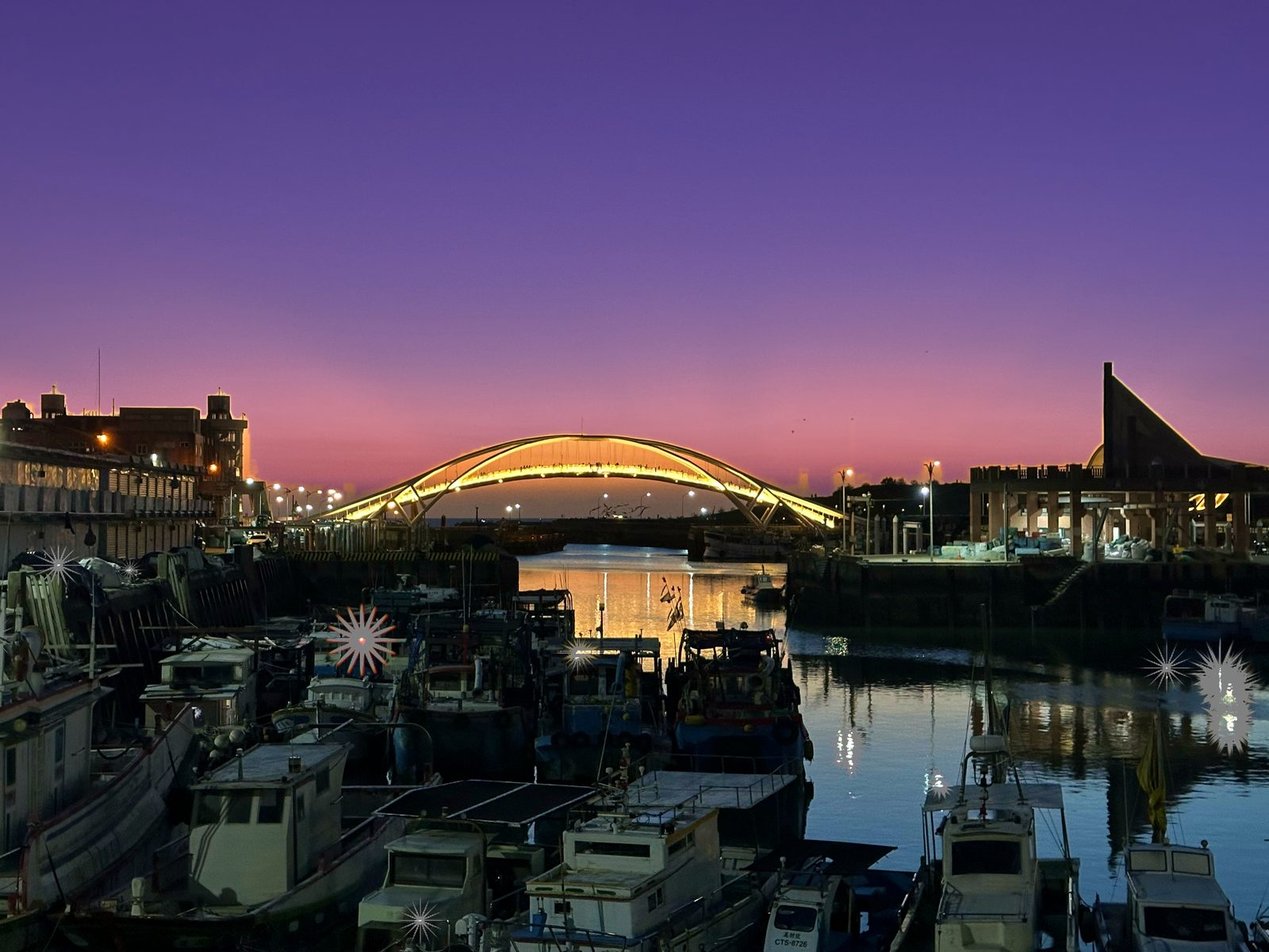
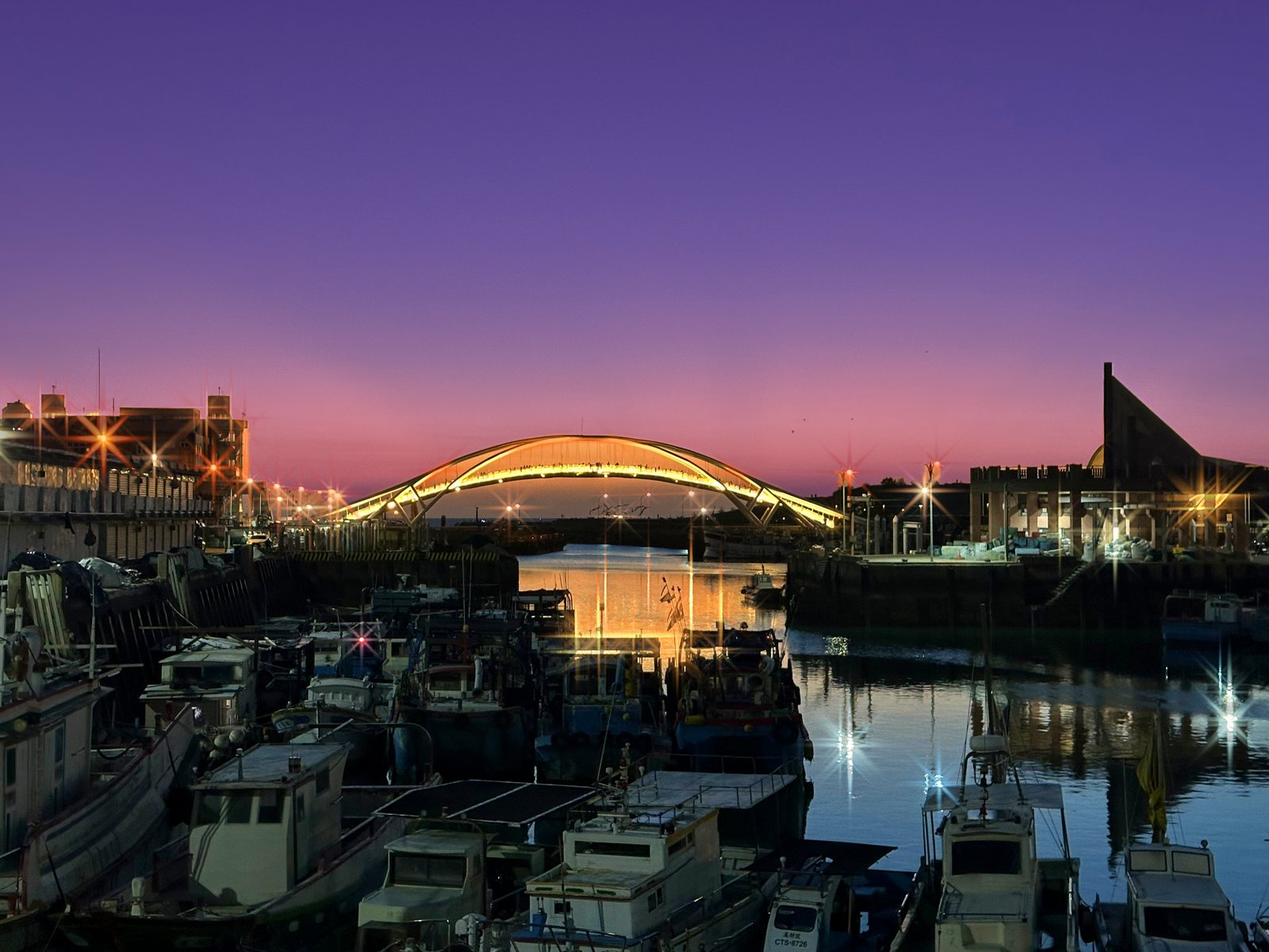
海港改晚霞+八道星芒;新增人像專區

diff --git a/en/index.html b/en/index.html
@@ -101,6 +101,13 @@ border-radius:12px;padding:9px 12px}
 .stats b{display:block;font-size:clamp(2rem,4vw,2.8rem);line-height:1;letter-spacing:-.03em;font-weight:800}
 .stats span{display:block;color:var(--muted);font-size:.88rem;margin-top:10px}
 @media (max-width:860px){.stats{grid-template-columns:repeat(2,1fr)}.stats div:last-child{grid-column:span 2}}
+.pgrid{display:grid;grid-template-columns:repeat(2,1fr);gap:28px}
+.pcard{background:var(--card);border:1px solid var(--line);border-radius:var(--r);padding:14px 14px 22px}
+.pcard .ba{border-radius:16px;aspect-ratio:4/5}
+.pcard .ba img{width:100%;height:100%;object-fit:cover}
+.pcard h3{font-size:1.15rem;margin:16px 6px 6px}
+.pcard p{color:var(--muted);margin:0 6px;font-size:.95rem}
+@media (max-width:760px){.pgrid{grid-template-columns:1fr}}
 .note{color:var(--dim);font-size:.82rem;text-align:center;margin-top:40px}
 @media (max-width:860px){.cmp,.cmp.tall,.cmp.flip,.cmp.tall.flip{grid-template-columns:1fr;gap:26px}.cmp.flip .media{order:0}}
 /* features */
@@ -208,9 +215,10 @@ the way you remember it.</h1>
 </section>
 <section class="wrap"><div class="stats"><div><b class="grad">0</b><span>photos uploaded to the cloud</span></div><div><b class="grad">478</b><span>facial landmarks for precise makeup</span></div><div><b class="grad">22</b><span>makeup areas</span></div><div><b class="grad">16</b><span>style filters</span></div><div><b class="grad">3</b><span>stacking modes: Fireworks, Starry, HDR</span></div></div></section>
 <section class="blk wrap" id="compare"><div class="head"><h2>Drag to see the difference</h2><p>Every image below was rendered by Luneki itself — no other software involved. Drag the handle left and right to compare.</p></div>
-<div class="cmp flip"><div class="media"><div class="ba" style="--p:50%"><img src="/assets/harbor-after.jpg" width="1600" height="1200" alt="A plain dusk becomes a violet afterglow — After" decoding="async" loading="lazy"><div class="b"><img src="/assets/harbor-before.jpg" width="1600" height="1200" alt="A plain dusk becomes a violet afterglow — Before" decoding="async" loading="lazy"></div><input type="range" min="0" max="100" value="50" aria-label="Before and after slider"><div class="h"></div><span class="t l">Before</span><span class="t r">After</span></div></div>
-<div><span class="tag">Sky</span><h3>A plain dusk becomes a violet afterglow</h3><p>The Sky tool detects the sky automatically and paints only the sky with an afterglow gradient — the docks, boats and lights stay untouched. Even the starbursts on the lights in the original were made with Luneki&#x27;s Lens tool.</p><ul class="steps"><li><svg class="ico" viewBox="0 0 24 24" fill="none" stroke="currentColor" stroke-width="1.8" stroke-linecap="round" stroke-linejoin="round" aria-hidden="true"><path d="M20 6 9 17l-5-5"/></svg><span>Sky: Sunset 60 (Precise mode)</span></li><li><svg class="ico" viewBox="0 0 24 24" fill="none" stroke="currentColor" stroke-width="1.8" stroke-linecap="round" stroke-linejoin="round" aria-hidden="true"><path d="M20 6 9 17l-5-5"/></svg><span>Basic: Vibrance +25, Contrast +10</span></li></ul></div></div><div class="cmp tall"><div class="media"><div class="ba" style="--p:50%"><img src="/assets/portrait-after.jpg" width="785" height="1122" alt="Korean shimmer makeup in one tap — After" decoding="async" loading="lazy"><div class="b"><img src="/assets/portrait-before.jpg" width="785" height="1122" alt="Korean shimmer makeup in one tap — Before" decoding="async" loading="lazy"></div><input type="range" min="0" max="100" value="50" aria-label="Before and after slider"><div class="h"></div><span class="t l">Before</span><span class="t r">After</span></div></div>
-<div><span class="tag">Portrait</span><h3>Korean shimmer makeup in one tap</h3><p>Deep Retouch removes blemishes while keeping pores and texture. Makeup follows 478 facial landmarks, so eyeshadow, shimmer, lashes and lip color land exactly where they should — and every area can still be fine-tuned.</p><ul class="steps"><li><svg class="ico" viewBox="0 0 24 24" fill="none" stroke="currentColor" stroke-width="1.8" stroke-linecap="round" stroke-linejoin="round" aria-hidden="true"><path d="M20 6 9 17l-5-5"/></svg><span>Preset: K-Glow</span></li><li><svg class="ico" viewBox="0 0 24 24" fill="none" stroke="currentColor" stroke-width="1.8" stroke-linecap="round" stroke-linejoin="round" aria-hidden="true"><path d="M20 6 9 17l-5-5"/></svg><span>Deep Retouch 70 + Whiten + 22-area makeup</span></li></ul></div></div><p class="note">The portrait sample photo is AI-generated.</p></section>
+<div class="cmp flip"><div class="media"><div class="ba" style="--p:50%"><img src="/assets/harbor-after.jpg" width="1600" height="1200" alt="A plain dusk becomes a violet afterglow with starbursts — After" decoding="async" loading="lazy"><div class="b"><img src="/assets/harbor-before.jpg" width="1600" height="1200" alt="A plain dusk becomes a violet afterglow with starbursts — Before" decoding="async" loading="lazy"></div><input type="range" min="0" max="100" value="50" aria-label="Before and after slider"><div class="h"></div><span class="t l">Before</span><span class="t r">After</span></div></div>
+<div><span class="tag">Sky</span><h3>A plain dusk becomes a violet afterglow with starbursts</h3><p>The Sky tool detects the sky automatically and paints only the sky with a violet afterglow — the docks, boats and lights stay untouched. Then the Lens tool turns the lights into 8-point starbursts.</p><ul class="steps"><li><svg class="ico" viewBox="0 0 24 24" fill="none" stroke="currentColor" stroke-width="1.8" stroke-linecap="round" stroke-linejoin="round" aria-hidden="true"><path d="M20 6 9 17l-5-5"/></svg><span>Sky: Sunset 60 (Precise mode)</span></li><li><svg class="ico" viewBox="0 0 24 24" fill="none" stroke="currentColor" stroke-width="1.8" stroke-linecap="round" stroke-linejoin="round" aria-hidden="true"><path d="M20 6 9 17l-5-5"/></svg><span>Lens: Starburst 100, 8 points</span></li><li><svg class="ico" viewBox="0 0 24 24" fill="none" stroke="currentColor" stroke-width="1.8" stroke-linecap="round" stroke-linejoin="round" aria-hidden="true"><path d="M20 6 9 17l-5-5"/></svg><span>Basic: Vibrance +25, Contrast +10</span></li></ul></div></div></section>
+<section class="blk wrap" id="portraits" style="padding-top:0"><div class="head"><h2>Portraits, done just as carefully</h2><p>Retouching, makeup, face shape and hair color — all on your device, and every step stays adjustable. Drag the handle to compare.</p></div>
+<div class="pgrid"><article class="pcard"><div class="ba" style="--p:50%"><img src="/assets/retouch-after.jpg" width="700" height="807" alt="Deep Retouch: blemishes and red spots, gone — After" decoding="async" loading="lazy"><div class="b"><img src="/assets/retouch-before.jpg" width="700" height="807" alt="Deep Retouch: blemishes and red spots, gone — Before" decoding="async" loading="lazy"></div><input type="range" min="0" max="100" value="50" aria-label="Before and after slider"><div class="h"></div><span class="t l">Before</span><span class="t r">After</span></div><h3>Deep Retouch: blemishes and red spots, gone</h3><p>AI removes only the flaws — pores and skin texture stay, no plastic look.</p></article><article class="pcard"><div class="ba" style="--p:50%"><img src="/assets/portrait-after.jpg" width="785" height="1122" alt="K-Glow makeup in one tap — After" decoding="async" loading="lazy"><div class="b"><img src="/assets/portrait-before.jpg" width="785" height="1122" alt="K-Glow makeup in one tap — Before" decoding="async" loading="lazy"></div><input type="range" min="0" max="100" value="50" aria-label="Before and after slider"><div class="h"></div><span class="t l">Before</span><span class="t r">After</span></div><h3>K-Glow makeup in one tap</h3><p>Eyeshadow, shimmer, lashes and lip color follow your features; all 22 areas can be fine-tuned.</p></article><article class="pcard"><div class="ba" style="--p:50%"><img src="/assets/reshape-after.jpg" width="700" height="804" alt="Face shape: slimmer cheeks, bigger eyes, finer nose — After" decoding="async" loading="lazy"><div class="b"><img src="/assets/reshape-before.jpg" width="700" height="804" alt="Face shape: slimmer cheeks, bigger eyes, finer nose — Before" decoding="async" loading="lazy"></div><input type="range" min="0" max="100" value="50" aria-label="Before and after slider"><div class="h"></div><span class="t l">Before</span><span class="t r">After</span></div><h3>Face shape: slimmer cheeks, bigger eyes, finer nose</h3><p>Adjusts along real contours for natural proportions, without warping the background.</p></article><article class="pcard"><div class="ba" style="--p:50%"><img src="/assets/haircolor-after.jpg" width="700" height="835" alt="Hair color that keeps every strand — After" decoding="async" loading="lazy"><div class="b"><img src="/assets/haircolor-before.jpg" width="700" height="835" alt="Hair color that keeps every strand — Before" decoding="async" loading="lazy"></div><input type="range" min="0" max="100" value="50" aria-label="Before and after slider"><div class="h"></div><span class="t l">Before</span><span class="t r">After</span></div><h3>Hair color that keeps every strand</h3><p>AI finds the hair and changes only its color, keeping the light and shine of each strand.</p></article></div><p class="note">The portrait sample photo is AI-generated.</p></section>
 <section class="blk wrap" id="features"><div class="head"><h2>One app, from the night sky to selfies</h2><p>Every tool a photographer needs — and every step can be revisited.</p></div>
 <div class="grid"><article class="card"><div class="ihead"><svg class="ico" viewBox="0 0 24 24" fill="none" stroke="currentColor" stroke-width="1.8" stroke-linecap="round" stroke-linejoin="round" aria-hidden="true"><path d="M21 12.8A9 9 0 1 1 11.2 3a7 7 0 0 0 9.8 9.8z"/></svg><h3>Landscape · Night · Astro</h3></div><dl><div><dt>AI Denoise</dt><dd>Clean up high-ISO and night noise in one step while keeping stars and detail.</dd></div><div><dt>Multi-photo Stacking</dt><dd>Fireworks, Starry (with star alignment) and HDR (with ghost removal) — desktop-class compositing on your phone.</dd></div><div><dt>Sky Tools</dt><dd>Auto or Precise sky detection: Sunset, Fire Sky, Blue Sky, cloud Depth and Recolor, applied to the sky only.</dd></div><div><dt>AI Dehaze · Shadow Detail</dt><dd>Cut through haze and recover depth in shadows and highlights.</dd></div><div><dt>Camera RAW</dt><dd>Import RAW files for maximum latitude; save lens correction presets that apply automatically next time.</dd></div></dl></article><article class="card"><div class="ihead"><svg class="ico" viewBox="0 0 24 24" fill="none" stroke="currentColor" stroke-width="1.8" stroke-linecap="round" stroke-linejoin="round" aria-hidden="true"><path d="M4 21v-7M4 10V3M12 21v-9M12 8V3M20 21v-5M20 12V3M1 14h6M9 8h6M17 16h6"/></svg><h3>Professional Color</h3></div><dl><div><dt>Curves &amp; HSL</dt><dd>RGB and per-channel curves plus 8-color HSL for precise control over every hue.</dd></div><div><dt>Selective Adjustments</dt><dd>Tap the sky, subject, people or any object — or paint a region — and adjust only that area.</dd></div><div><dt>16 Filters</dt><dd>Film, black &amp; white, Japanese airy, Hong Kong mood, cinematic and more, with adjustable strength.</dd></div><div><dt>Non-destructive Editing</dt><dd>Every adjustment can be toggled, changed or removed; press and hold the photo to compare with the original.</dd></div><div><dt>Presets</dt><dd>Apply a look to other photos in one tap, or copy and paste a whole edit across many photos.</dd></div></dl></article><article class="card"><div class="ihead"><svg class="ico" viewBox="0 0 24 24" fill="none" stroke="currentColor" stroke-width="1.8" stroke-linecap="round" stroke-linejoin="round" aria-hidden="true"><circle cx="12" cy="12" r="9"/><path d="M8.5 14.5a4.5 4.5 0 0 0 7 0M9 9.5h.01M15 9.5h.01"/></svg><h3>Portrait</h3></div><dl><div><dt>Deep Retouch</dt><dd>AI removes blemishes but keeps real skin texture — no plastic look.</dd></div><div><dt>Skin Beauty &amp; Blemish</dt><dd>Auto blemish removal, dark-circle reduction, whitening and skin tone; tap to remove a spot.</dd></div><div><dt>Reshape &amp; Body</dt><dd>Slim the face, enlarge eyes, refine the nose and chin, lengthen legs or slim the belly — following real contours without warping the background.</dd></div><div><dt>22-area Makeup</dt><dd>Foundation, contour, eyeshadow, shimmer, eyeliner, lashes, blush, lip color, dewy skin and more — plus hair color.</dd></div><div><dt>Group Photos</dt><dd>Adjust each face and each person separately; register people you photograph often and their settings apply automatically (PRO).</dd></div></dl></article><article class="card"><div class="ihead"><svg class="ico" viewBox="0 0 24 24" fill="none" stroke="currentColor" stroke-width="1.8" stroke-linecap="round" stroke-linejoin="round" aria-hidden="true"><circle cx="12" cy="12" r="9"/><path d="M14.3 3.3 9 12.5M20.6 9.5h-10.6M18.3 18 13 8.8M9.7 20.7 15 11.5M3.4 14.5h10.6M5.7 6 11 15.2"/></svg><h3>Light &amp; Lens</h3></div><dl><div><dt>Background Blur &amp; Bokeh</dt><dd>Simulate a wide-aperture lens: background lights turn into soft, round bokeh balls. Adjust aperture, bokeh size, softness and aperture shape — even cat&#x27;s-eye bokeh.</dd></div><div><dt>Starburst</dt><dd>Turn night lights into 4-, 6- or 8-point starbursts, just like shooting at a small aperture.</dd></div><div><dt>Lens Correction</dt><dd>Fix vignetting and distortion in one place — straighten even ultra-wide shots.</dd></div><div><dt>Erase Object</dt><dd>Brush away people, clutter or power lines, and AI fills in the background.</dd></div><div><dt>Draw &amp; Apple Pencil</dt><dd>Doodle and write right on your photos; Apple Pencil varies the width with pressure, and iPad gets a large split-view canvas.</dd></div></dl></article></div></section>
 <section class="wrap" id="privacy"><div class="band"><svg class="ico lg" viewBox="0 0 24 24" fill="none" stroke="currentColor" stroke-width="1.8" stroke-linecap="round" stroke-linejoin="round" aria-hidden="true"><path d="M12 22s8-4 8-10V5l-8-3-8 3v7c0 6 8 10 8 10z"/><path d="m9 12 2 2 4-4"/></svg>

diff --git a/zh-Hant/index.html b/zh-Hant/index.html
@@ -101,6 +101,13 @@ border-radius:12px;padding:9px 12px}
 .stats b{display:block;font-size:clamp(2rem,4vw,2.8rem);line-height:1;letter-spacing:-.03em;font-weight:800}
 .stats span{display:block;color:var(--muted);font-size:.88rem;margin-top:10px}
 @media (max-width:860px){.stats{grid-template-columns:repeat(2,1fr)}.stats div:last-child{grid-column:span 2}}
+.pgrid{display:grid;grid-template-columns:repeat(2,1fr);gap:28px}
+.pcard{background:var(--card);border:1px solid var(--line);border-radius:var(--r);padding:14px 14px 22px}
+.pcard .ba{border-radius:16px;aspect-ratio:4/5}
+.pcard .ba img{width:100%;height:100%;object-fit:cover}
+.pcard h3{font-size:1.15rem;margin:16px 6px 6px}
+.pcard p{color:var(--muted);margin:0 6px;font-size:.95rem}
+@media (max-width:760px){.pgrid{grid-template-columns:1fr}}
 .note{color:var(--dim);font-size:.82rem;text-align:center;margin-top:40px}
 @media (max-width:860px){.cmp,.cmp.tall,.cmp.flip,.cmp.tall.flip{grid-template-columns:1fr;gap:26px}.cmp.flip .media{order:0}}
 /* features */
@@ -208,9 +215,10 @@ display:grid;place-items:center;font-size:.85rem;font-weight:700;background:var(
 </section>
 <section class="wrap"><div class="stats"><div><b class="grad">0</b><span>張照片上傳到雲端</span></div><div><b class="grad">478</b><span>個臉部特徵點，化妝精準貼合</span></div><div><b class="grad">22</b><span>個化妝部位</span></div><div><b class="grad">16</b><span>種風格濾鏡</span></div><div><b class="grad">3</b><span>種疊圖模式：煙火、星空、HDR</span></div></div></section>
 <section class="blk wrap" id="compare"><div class="head"><h2>拖曳看看差別</h2><p>以下都是 Luneki 實際渲染的結果，沒有其他軟體加工。左右拖曳中間的把手比較。</p></div>
-<div class="cmp flip"><div class="media"><div class="ba" style="--p:50%"><img src="/assets/harbor-after.jpg" width="1600" height="1200" alt="平淡的黃昏，變成紫紅晚霞 — 調整後" decoding="async" loading="lazy"><div class="b"><img src="/assets/harbor-before.jpg" width="1600" height="1200" alt="平淡的黃昏，變成紫紅晚霞 — 原圖" decoding="async" loading="lazy"></div><input type="range" min="0" max="100" value="50" aria-label="前後對照滑桿"><div class="h"></div><span class="t l">原圖</span><span class="t r">調整後</span></div></div>
-<div><span class="tag">天空</span><h3>平淡的黃昏，變成紫紅晚霞</h3><p>天空調整會自動辨識天空，只替天空換上晚霞漸層，碼頭、船隻與燈光完全不受影響。原圖中的燈光星芒，也是用 Luneki 的鏡頭工具做出來的。</p><ul class="steps"><li><svg class="ico" viewBox="0 0 24 24" fill="none" stroke="currentColor" stroke-width="1.8" stroke-linecap="round" stroke-linejoin="round" aria-hidden="true"><path d="M20 6 9 17l-5-5"/></svg><span>天空：晚霞 60（精準模式）</span></li><li><svg class="ico" viewBox="0 0 24 24" fill="none" stroke="currentColor" stroke-width="1.8" stroke-linecap="round" stroke-linejoin="round" aria-hidden="true"><path d="M20 6 9 17l-5-5"/></svg><span>基礎調整：鮮豔度 +25、對比 +10</span></li></ul></div></div><div class="cmp tall"><div class="media"><div class="ba" style="--p:50%"><img src="/assets/portrait-after.jpg" width="785" height="1122" alt="一鍵套用韓系珠光妝 — 調整後" decoding="async" loading="lazy"><div class="b"><img src="/assets/portrait-before.jpg" width="785" height="1122" alt="一鍵套用韓系珠光妝 — 原圖" decoding="async" loading="lazy"></div><input type="range" min="0" max="100" value="50" aria-label="前後對照滑桿"><div class="h"></div><span class="t l">原圖</span><span class="t r">調整後</span></div></div>
-<div><span class="tag">人像</span><h3>一鍵套用韓系珠光妝</h3><p>深層修膚保留毛孔與質感、只去掉瑕疵；化妝貼合臉部 478 個特徵點，眼影、珠光、睫毛、唇色一次到位，每個部位都能再單獨微調。</p><ul class="steps"><li><svg class="ico" viewBox="0 0 24 24" fill="none" stroke="currentColor" stroke-width="1.8" stroke-linecap="round" stroke-linejoin="round" aria-hidden="true"><path d="M20 6 9 17l-5-5"/></svg><span>設定集：韓系珠光</span></li><li><svg class="ico" viewBox="0 0 24 24" fill="none" stroke="currentColor" stroke-width="1.8" stroke-linecap="round" stroke-linejoin="round" aria-hidden="true"><path d="M20 6 9 17l-5-5"/></svg><span>深層修膚 70 + 美白 + 22 部位化妝</span></li></ul></div></div><p class="note">人像示範照片為 AI 生成。</p></section>
+<div class="cmp flip"><div class="media"><div class="ba" style="--p:50%"><img src="/assets/harbor-after.jpg" width="1600" height="1200" alt="平淡的黃昏，變成紫紅晚霞與星芒 — 調整後" decoding="async" loading="lazy"><div class="b"><img src="/assets/harbor-before.jpg" width="1600" height="1200" alt="平淡的黃昏，變成紫紅晚霞與星芒 — 原圖" decoding="async" loading="lazy"></div><input type="range" min="0" max="100" value="50" aria-label="前後對照滑桿"><div class="h"></div><span class="t l">原圖</span><span class="t r">調整後</span></div></div>
+<div><span class="tag">天空</span><h3>平淡的黃昏，變成紫紅晚霞與星芒</h3><p>天空調整自動辨識天空，只替天空換上紫紅晚霞，碼頭、船隻與燈光完全不受影響；再用鏡頭工具把燈光變成八道星芒。</p><ul class="steps"><li><svg class="ico" viewBox="0 0 24 24" fill="none" stroke="currentColor" stroke-width="1.8" stroke-linecap="round" stroke-linejoin="round" aria-hidden="true"><path d="M20 6 9 17l-5-5"/></svg><span>天空：晚霞 60（精準模式）</span></li><li><svg class="ico" viewBox="0 0 24 24" fill="none" stroke="currentColor" stroke-width="1.8" stroke-linecap="round" stroke-linejoin="round" aria-hidden="true"><path d="M20 6 9 17l-5-5"/></svg><span>鏡頭：星芒 100、8 道</span></li><li><svg class="ico" viewBox="0 0 24 24" fill="none" stroke="currentColor" stroke-width="1.8" stroke-linecap="round" stroke-linejoin="round" aria-hidden="true"><path d="M20 6 9 17l-5-5"/></svg><span>基礎調整：鮮豔度 +25、對比 +10</span></li></ul></div></div></section>
+<section class="blk wrap" id="portraits" style="padding-top:0"><div class="head"><h2>人像，一樣講究</h2><p>修膚、化妝、臉型、髮色都在裝置上完成，而且每一項都能再微調。拖曳把手比較。</p></div>
+<div class="pgrid"><article class="pcard"><div class="ba" style="--p:50%"><img src="/assets/retouch-after.jpg" width="700" height="807" alt="深層修膚：痘疤與紅點不見了 — 調整後" decoding="async" loading="lazy"><div class="b"><img src="/assets/retouch-before.jpg" width="700" height="807" alt="深層修膚：痘疤與紅點不見了 — 原圖" decoding="async" loading="lazy"></div><input type="range" min="0" max="100" value="50" aria-label="前後對照滑桿"><div class="h"></div><span class="t l">原圖</span><span class="t r">調整後</span></div><h3>深層修膚：痘疤與紅點不見了</h3><p>AI 只去掉瑕疵，毛孔與膚質都還在，不會變成塑膠臉。</p></article><article class="pcard"><div class="ba" style="--p:50%"><img src="/assets/portrait-after.jpg" width="785" height="1122" alt="一鍵韓系珠光妝 — 調整後" decoding="async" loading="lazy"><div class="b"><img src="/assets/portrait-before.jpg" width="785" height="1122" alt="一鍵韓系珠光妝 — 原圖" decoding="async" loading="lazy"></div><input type="range" min="0" max="100" value="50" aria-label="前後對照滑桿"><div class="h"></div><span class="t l">原圖</span><span class="t r">調整後</span></div><h3>一鍵韓系珠光妝</h3><p>眼影、珠光、睫毛、唇色貼合五官，22 個部位都能單獨調整。</p></article><article class="pcard"><div class="ba" style="--p:50%"><img src="/assets/reshape-after.jpg" width="700" height="804" alt="臉型：瘦臉、大眼、瘦鼻 — 調整後" decoding="async" loading="lazy"><div class="b"><img src="/assets/reshape-before.jpg" width="700" height="804" alt="臉型：瘦臉、大眼、瘦鼻 — 原圖" decoding="async" loading="lazy"></div><input type="range" min="0" max="100" value="50" aria-label="前後對照滑桿"><div class="h"></div><span class="t l">原圖</span><span class="t r">調整後</span></div><h3>臉型：瘦臉、大眼、瘦鼻</h3><p>沿著真實輪廓調整，五官比例自然，背景不扭曲。</p></article><article class="pcard"><div class="ba" style="--p:50%"><img src="/assets/haircolor-after.jpg" width="700" height="835" alt="換髮色：保留每一根髮絲 — 調整後" decoding="async" loading="lazy"><div class="b"><img src="/assets/haircolor-before.jpg" width="700" height="835" alt="換髮色：保留每一根髮絲 — 原圖" decoding="async" loading="lazy"></div><input type="range" min="0" max="100" value="50" aria-label="前後對照滑桿"><div class="h"></div><span class="t l">原圖</span><span class="t r">調整後</span></div><h3>換髮色：保留每一根髮絲</h3><p>AI 辨識頭髮，只換顏色、保留髮絲的明暗與光澤。</p></article></div><p class="note">人像示範照片為 AI 生成。</p></section>
 <section class="blk wrap" id="features"><div class="head"><h2>一個 App，從星空到自拍</h2><p>攝影玩家要的工具都在，而且每一步都能回頭改。</p></div>
 <div class="grid"><article class="card"><div class="ihead"><svg class="ico" viewBox="0 0 24 24" fill="none" stroke="currentColor" stroke-width="1.8" stroke-linecap="round" stroke-linejoin="round" aria-hidden="true"><path d="M21 12.8A9 9 0 1 1 11.2 3a7 7 0 0 0 9.8 9.8z"/></svg><h3>風景・夜景・星空</h3></div><dl><div><dt>AI 降噪</dt><dd>高 ISO、夜景雜訊一鍵乾淨，保留星點與細節。</dd></div><div><dt>多張疊圖</dt><dd>煙火、星空（星點對齊）、HDR（去鬼影）三種模式，手機也能做桌機等級合成。</dd></div><div><dt>天空調整</dt><dd>自動或精準辨識天空：晚霞、火燒雲、藍天、雲層立體、換色，只動天空。</dd></div><div><dt>AI 去霧・暗部細節</dt><dd>撥開霧霾，找回暗部與高光的層次。</dd></div><div><dt>相機 RAW</dt><dd>直接匯入 RAW 檔，保留最大寬容度；可存鏡頭校正預設，之後自動套用。</dd></div></dl></article><article class="card"><div class="ihead"><svg class="ico" viewBox="0 0 24 24" fill="none" stroke="currentColor" stroke-width="1.8" stroke-linecap="round" stroke-linejoin="round" aria-hidden="true"><path d="M4 21v-7M4 10V3M12 21v-9M12 8V3M20 21v-5M20 12V3M1 14h6M9 8h6M17 16h6"/></svg><h3>專業調色</h3></div><dl><div><dt>曲線與 HSL</dt><dd>RGB 與單色曲線、八色 HSL，精準控制每一種顏色。</dd></div><div><dt>局部調整</dt><dd>點選天空、主體、人物或任何物件，或用筆刷畫出區域，只調你要的地方。</dd></div><div><dt>16 種濾鏡</dt><dd>膠片、黑白、日系、港風、電影感……強度可調。</dd></div><div><dt>非破壞性編輯</dt><dd>每個調整都能開關、修改、刪除；長按照片隨時對比原圖。</dd></div><div><dt>設定集</dt><dd>一鍵套用到其他照片，或複製貼上整組編輯到多張照片。</dd></div></dl></article><article class="card"><div class="ihead"><svg class="ico" viewBox="0 0 24 24" fill="none" stroke="currentColor" stroke-width="1.8" stroke-linecap="round" stroke-linejoin="round" aria-hidden="true"><circle cx="12" cy="12" r="9"/><path d="M8.5 14.5a4.5 4.5 0 0 0 7 0M9 9.5h.01M15 9.5h.01"/></svg><h3>人像</h3></div><dl><div><dt>深層修膚</dt><dd>AI 去瑕疵但保留皮膚紋理，不會變成塑膠臉。</dd></div><div><dt>美肌與去斑修痘</dt><dd>自動修瑕、去黑眼圈、美白、膚色冷暖；點一下修掉痘痘。</dd></div><div><dt>臉部重塑與身形</dt><dd>瘦臉、大眼、瘦鼻、下巴、腿長、小腹，沿著真實輪廓推移、不扭曲背景。</dd></div><div><dt>22 部位化妝</dt><dd>粉底、修容、眼影、珠光、眼線、睫毛、腮紅、唇彩、水光肌……還能換髮色。</dd></div><div><dt>多人合照</dt><dd>每張臉、每個人都能分開調整；註冊常拍的人，之後自動套用他的設定（PRO）。</dd></div></dl></article><article class="card"><div class="ihead"><svg class="ico" viewBox="0 0 24 24" fill="none" stroke="currentColor" stroke-width="1.8" stroke-linecap="round" stroke-linejoin="round" aria-hidden="true"><circle cx="12" cy="12" r="9"/><path d="M14.3 3.3 9 12.5M20.6 9.5h-10.6M18.3 18 13 8.8M9.7 20.7 15 11.5M3.4 14.5h10.6M5.7 6 11 15.2"/></svg><h3>光影與鏡頭</h3></div><dl><div><dt>背景虛化與散景光斑</dt><dd>模擬大光圈景深，背景的燈光化成柔和的圓形光斑；可調光圈、光斑大小、柔和度與光圈形狀，還有貓眼散景。</dd></div><div><dt>星芒</dt><dd>把夜景的燈光變成星芒，4、6、8 道可選，像真的用了小光圈。</dd></div><div><dt>鏡頭校正</dt><dd>邊暈、變形一次修正，超廣角也能拉直。</dd></div><div><dt>物件消除</dt><dd>刷掉路人、雜物、電線，AI 自動補上背景。</dd></div><div><dt>畫筆與 Apple Pencil</dt><dd>直接在照片上塗鴉、寫字；Apple Pencil 依力道改變粗細，iPad 上是左右分欄的大畫布。</dd></div></dl></article></div></section>
 <section class="wrap" id="privacy"><div class="band"><svg class="ico lg" viewBox="0 0 24 24" fill="none" stroke="currentColor" stroke-width="1.8" stroke-linecap="round" stroke-linejoin="round" aria-hidden="true"><path d="M12 22s8-4 8-10V5l-8-3-8 3v7c0 6 8 10 8 10z"/><path d="m9 12 2 2 4-4"/></svg>

diff --git a/ar/guide/index.html b/ar/guide/index.html
@@ -101,6 +101,13 @@ border-radius:12px;padding:9px 12px}
 .stats b{display:block;font-size:clamp(2rem,4vw,2.8rem);line-height:1;letter-spacing:-.03em;font-weight:800}
 .stats span{display:block;color:var(--muted);font-size:.88rem;margin-top:10px}
 @media (max-width:860px){.stats{grid-template-columns:repeat(2,1fr)}.stats div:last-child{grid-column:span 2}}
+.pgrid{display:grid;grid-template-columns:repeat(2,1fr);gap:28px}
+.pcard{background:var(--card);border:1px solid var(--line);border-radius:var(--r);padding:14px 14px 22px}
+.pcard .ba{border-radius:16px;aspect-ratio:4/5}
+.pcard .ba img{width:100%;height:100%;object-fit:cover}
+.pcard h3{font-size:1.15rem;margin:16px 6px 6px}
+.pcard p{color:var(--muted);margin:0 6px;font-size:.95rem}
+@media (max-width:760px){.pgrid{grid-template-columns:1fr}}
 .note{color:var(--dim);font-size:.82rem;text-align:center;margin-top:40px}
 @media (max-width:860px){.cmp,.cmp.tall,.cmp.flip,.cmp.tall.flip{grid-template-columns:1fr;gap:26px}.cmp.flip .media{order:0}}
 /* features */

diff --git a/ar/index.html b/ar/index.html
@@ -101,6 +101,13 @@ border-radius:12px;padding:9px 12px}
 .stats b{display:block;font-size:clamp(2rem,4vw,2.8rem);line-height:1;letter-spacing:-.03em;font-weight:800}
 .stats span{display:block;color:var(--muted);font-size:.88rem;margin-top:10px}
 @media (max-width:860px){.stats{grid-template-columns:repeat(2,1fr)}.stats div:last-child{grid-column:span 2}}
+.pgrid{display:grid;grid-template-columns:repeat(2,1fr);gap:28px}
+.pcard{background:var(--card);border:1px solid var(--line);border-radius:var(--r);padding:14px 14px 22px}
+.pcard .ba{border-radius:16px;aspect-ratio:4/5}
+.pcard .ba img{width:100%;height:100%;object-fit:cover}
+.pcard h3{font-size:1.15rem;margin:16px 6px 6px}
+.pcard p{color:var(--muted);margin:0 6px;font-size:.95rem}
+@media (max-width:760px){.pgrid{grid-template-columns:1fr}}
 .note{color:var(--dim);font-size:.82rem;text-align:center;margin-top:40px}
 @media (max-width:860px){.cmp,.cmp.tall,.cmp.flip,.cmp.tall.flip{grid-template-columns:1fr;gap:26px}.cmp.flip .media{order:0}}
 /* features */

diff --git a/de/guide/index.html b/de/guide/index.html
@@ -101,6 +101,13 @@ border-radius:12px;padding:9px 12px}
 .stats b{display:block;font-size:clamp(2rem,4vw,2.8rem);line-height:1;letter-spacing:-.03em;font-weight:800}
 .stats span{display:block;color:var(--muted);font-size:.88rem;margin-top:10px}
 @media (max-width:860px){.stats{grid-template-columns:repeat(2,1fr)}.stats div:last-child{grid-column:span 2}}
+.pgrid{display:grid;grid-template-columns:repeat(2,1fr);gap:28px}
+.pcard{background:var(--card);border:1px solid var(--line);border-radius:var(--r);padding:14px 14px 22px}
+.pcard .ba{border-radius:16px;aspect-ratio:4/5}
+.pcard .ba img{width:100%;height:100%;object-fit:cover}
+.pcard h3{font-size:1.15rem;margin:16px 6px 6px}
+.pcard p{color:var(--muted);margin:0 6px;font-size:.95rem}
+@media (max-width:760px){.pgrid{grid-template-columns:1fr}}
 .note{color:var(--dim);font-size:.82rem;text-align:center;margin-top:40px}
 @media (max-width:860px){.cmp,.cmp.tall,.cmp.flip,.cmp.tall.flip{grid-template-columns:1fr;gap:26px}.cmp.flip .media{order:0}}
 /* features */

diff --git a/de/index.html b/de/index.html
@@ -101,6 +101,13 @@ border-radius:12px;padding:9px 12px}
 .stats b{display:block;font-size:clamp(2rem,4vw,2.8rem);line-height:1;letter-spacing:-.03em;font-weight:800}
 .stats span{display:block;color:var(--muted);font-size:.88rem;margin-top:10px}
 @media (max-width:860px){.stats{grid-template-columns:repeat(2,1fr)}.stats div:last-child{grid-column:span 2}}
+.pgrid{display:grid;grid-template-columns:repeat(2,1fr);gap:28px}
+.pcard{background:var(--card);border:1px solid var(--line);border-radius:var(--r);padding:14px 14px 22px}
+.pcard .ba{border-radius:16px;aspect-ratio:4/5}
+.pcard .ba img{width:100%;height:100%;object-fit:cover}
+.pcard h3{font-size:1.15rem;margin:16px 6px 6px}
+.pcard p{color:var(--muted);margin:0 6px;font-size:.95rem}
+@media (max-width:760px){.pgrid{grid-template-columns:1fr}}
 .note{color:var(--dim);font-size:.82rem;text-align:center;margin-top:40px}
 @media (max-width:860px){.cmp,.cmp.tall,.cmp.flip,.cmp.tall.flip{grid-template-columns:1fr;gap:26px}.cmp.flip .media{order:0}}
 /* features */

diff --git a/en/guide/index.html b/en/guide/index.html
@@ -101,6 +101,13 @@ border-radius:12px;padding:9px 12px}
 .stats b{display:block;font-size:clamp(2rem,4vw,2.8rem);line-height:1;letter-spacing:-.03em;font-weight:800}
 .stats span{display:block;color:var(--muted);font-size:.88rem;margin-top:10px}
 @media (max-width:860px){.stats{grid-template-columns:repeat(2,1fr)}.stats div:last-child{grid-column:span 2}}
+.pgrid{display:grid;grid-template-columns:repeat(2,1fr);gap:28px}
+.pcard{background:var(--card);border:1px solid var(--line);border-radius:var(--r);padding:14px 14px 22px}
+.pcard .ba{border-radius:16px;aspect-ratio:4/5}
+.pcard .ba img{width:100%;height:100%;object-fit:cover}
+.pcard h3{font-size:1.15rem;margin:16px 6px 6px}
+.pcard p{color:var(--muted);margin:0 6px;font-size:.95rem}
+@media (max-width:760px){.pgrid{grid-template-columns:1fr}}
 .note{color:var(--dim);font-size:.82rem;text-align:center;margin-top:40px}
 @media (max-width:860px){.cmp,.cmp.tall,.cmp.flip,.cmp.tall.flip{grid-template-columns:1fr;gap:26px}.cmp.flip .media{order:0}}
 /* features */

diff --git a/es/guide/index.html b/es/guide/index.html
@@ -101,6 +101,13 @@ border-radius:12px;padding:9px 12px}
 .stats b{display:block;font-size:clamp(2rem,4vw,2.8rem);line-height:1;letter-spacing:-.03em;font-weight:800}
 .stats span{display:block;color:var(--muted);font-size:.88rem;margin-top:10px}
 @media (max-width:860px){.stats{grid-template-columns:repeat(2,1fr)}.stats div:last-child{grid-column:span 2}}
+.pgrid{display:grid;grid-template-columns:repeat(2,1fr);gap:28px}
+.pcard{background:var(--card);border:1px solid var(--line);border-radius:var(--r);padding:14px 14px 22px}
+.pcard .ba{border-radius:16px;aspect-ratio:4/5}
+.pcard .ba img{width:100%;height:100%;object-fit:cover}
+.pcard h3{font-size:1.15rem;margin:16px 6px 6px}
+.pcard p{color:var(--muted);margin:0 6px;font-size:.95rem}
+@media (max-width:760px){.pgrid{grid-template-columns:1fr}}
 .note{color:var(--dim);font-size:.82rem;text-align:center;margin-top:40px}
 @media (max-width:860px){.cmp,.cmp.tall,.cmp.flip,.cmp.tall.flip{grid-template-columns:1fr;gap:26px}.cmp.flip .media{order:0}}
 /* features */

diff --git a/es/index.html b/es/index.html
@@ -101,6 +101,13 @@ border-radius:12px;padding:9px 12px}
 .stats b{display:block;font-size:clamp(2rem,4vw,2.8rem);line-height:1;letter-spacing:-.03em;font-weight:800}
 .stats span{display:block;color:var(--muted);font-size:.88rem;margin-top:10px}
 @media (max-width:860px){.stats{grid-template-columns:repeat(2,1fr)}.stats div:last-child{grid-column:span 2}}
+.pgrid{display:grid;grid-template-columns:repeat(2,1fr);gap:28px}
+.pcard{background:var(--card);border:1px solid var(--line);border-radius:var(--r);padding:14px 14px 22px}
+.pcard .ba{border-radius:16px;aspect-ratio:4/5}
+.pcard .ba img{width:100%;height:100%;object-fit:cover}
+.pcard h3{font-size:1.15rem;margin:16px 6px 6px}
+.pcard p{color:var(--muted);margin:0 6px;font-size:.95rem}
+@media (max-width:760px){.pgrid{grid-template-columns:1fr}}
 .note{color:var(--dim);font-size:.82rem;text-align:center;margin-top:40px}
 @media (max-width:860px){.cmp,.cmp.tall,.cmp.flip,.cmp.tall.flip{grid-template-columns:1fr;gap:26px}.cmp.flip .media{order:0}}
 /* features */

diff --git a/fr/guide/index.html b/fr/guide/index.html
@@ -101,6 +101,13 @@ border-radius:12px;padding:9px 12px}
 .stats b{display:block;font-size:clamp(2rem,4vw,2.8rem);line-height:1;letter-spacing:-.03em;font-weight:800}
 .stats span{display:block;color:var(--muted);font-size:.88rem;margin-top:10px}
 @media (max-width:860px){.stats{grid-template-columns:repeat(2,1fr)}.stats div:last-child{grid-column:span 2}}
+.pgrid{display:grid;grid-template-columns:repeat(2,1fr);gap:28px}
+.pcard{background:var(--card);border:1px solid var(--line);border-radius:var(--r);padding:14px 14px 22px}
+.pcard .ba{border-radius:16px;aspect-ratio:4/5}
+.pcard .ba img{width:100%;height:100%;object-fit:cover}
+.pcard h3{font-size:1.15rem;margin:16px 6px 6px}
+.pcard p{color:var(--muted);margin:0 6px;font-size:.95rem}
+@media (max-width:760px){.pgrid{grid-template-columns:1fr}}
 .note{color:var(--dim);font-size:.82rem;text-align:center;margin-top:40px}
 @media (max-width:860px){.cmp,.cmp.tall,.cmp.flip,.cmp.tall.flip{grid-template-columns:1fr;gap:26px}.cmp.flip .media{order:0}}
 /* features */

diff --git a/fr/index.html b/fr/index.html
@@ -101,6 +101,13 @@ border-radius:12px;padding:9px 12px}
 .stats b{display:block;font-size:clamp(2rem,4vw,2.8rem);line-height:1;letter-spacing:-.03em;font-weight:800}
 .stats span{display:block;color:var(--muted);font-size:.88rem;margin-top:10px}
 @media (max-width:860px){.stats{grid-template-columns:repeat(2,1fr)}.stats div:last-child{grid-column:span 2}}
+.pgrid{display:grid;grid-template-columns:repeat(2,1fr);gap:28px}
+.pcard{background:var(--card);border:1px solid var(--line);border-radius:var(--r);padding:14px 14px 22px}
+.pcard .ba{border-radius:16px;aspect-ratio:4/5}
+.pcard .ba img{width:100%;height:100%;object-fit:cover}
+.pcard h3{font-size:1.15rem;margin:16px 6px 6px}
+.pcard p{color:var(--muted);margin:0 6px;font-size:.95rem}
+@media (max-width:760px){.pgrid{grid-template-columns:1fr}}
 .note{color:var(--dim);font-size:.82rem;text-align:center;margin-top:40px}
 @media (max-width:860px){.cmp,.cmp.tall,.cmp.flip,.cmp.tall.flip{grid-template-columns:1fr;gap:26px}.cmp.flip .media{order:0}}
 /* features */

diff --git a/hi/guide/index.html b/hi/guide/index.html
@@ -101,6 +101,13 @@ border-radius:12px;padding:9px 12px}
 .stats b{display:block;font-size:clamp(2rem,4vw,2.8rem);line-height:1;letter-spacing:-.03em;font-weight:800}
 .stats span{display:block;color:var(--muted);font-size:.88rem;margin-top:10px}
 @media (max-width:860px){.stats{grid-template-columns:repeat(2,1fr)}.stats div:last-child{grid-column:span 2}}
+.pgrid{display:grid;grid-template-columns:repeat(2,1fr);gap:28px}
+.pcard{background:var(--card);border:1px solid var(--line);border-radius:var(--r);padding:14px 14px 22px}
+.pcard .ba{border-radius:16px;aspect-ratio:4/5}
+.pcard .ba img{width:100%;height:100%;object-fit:cover}
+.pcard h3{font-size:1.15rem;margin:16px 6px 6px}
+.pcard p{color:var(--muted);margin:0 6px;font-size:.95rem}
+@media (max-width:760px){.pgrid{grid-template-columns:1fr}}
 .note{color:var(--dim);font-size:.82rem;text-align:center;margin-top:40px}
 @media (max-width:860px){.cmp,.cmp.tall,.cmp.flip,.cmp.tall.flip{grid-template-columns:1fr;gap:26px}.cmp.flip .media{order:0}}
 /* features */
